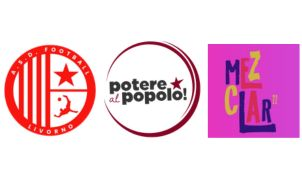
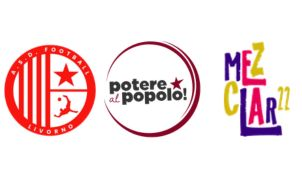
pagina realtà

Changed region(s): [[0.6854, 0.2198, 1.0, 0.7692]]

diff --git a/_posts/design/2026-06-06-realta.md b/_posts/design/2026-06-06-realta.md
@@ -1,0 +1,32 @@
+---
+layout: page
+subheadline: Realtà
+title:  "Quali sono le realtà che vivono lo spazio?"
+permalink: /realta/
+show_meta: false
+breadcrumb: true
+image:
+    title: realta-big.png
+    caption: Realtà
+---
+
+<h2> <a href="https://poterealpopolo.org/" target="_blank" rel="noopener noreferrer">POTERE AL POPOLO </a></h2>
+
+Siamo le giovani e i giovani che lavorano a nero, precari, per 800 euro al mese perché ne hanno bisogno, che spesso emigrano per trovare di meglio. Siamo lavoratori e lavoratrici sottoposte ogni giorno a ricatti sempre più pesanti e offensivi per la nostra dignità, che vedono il proprio salario mangiato da affitti, bollette e spesa sempre più cari. Siamo disoccupate, cassaintegrate, esodati. <br> Siamo i pensionati che campano con poco anche se hanno faticato una vita e ora non vedono prospettive per i loro figli. Siamo le donne che lottano contro la violenza maschilie, il patriarcato, le disparità di salario a parità di lavoro. Siamo le persone LGBT discriminate sul lavoro e dalle istituzioni. Siamo pendolari, abitanti delle periferie che lottano con il trasporto pubblico inefficiente e la mancanza di servizi. I malati che aspettano mesi per una visita nella sanità pubblica, perché quella privata non possono permettersela. Siamo i migranti che aspettano invano un permesso di soggiorno pur lavorando da anni in Italia. <br>
+Siamo coloro che producono la ricchezza di questo paese. <br>
+Ma siamo anche quelli che non cedono alla disperazione e alla rassegnazione, che non sopportano di vivere in un’Italia sempre più incattivita, triste, impoverita e ingiusta. <br> Siamo quelli che vogliono liberare le migliori energie di questo paese, gettare a mare una zavorra fatta di corporativismo, di una classe politica e imprenditoriale immorali e corrotte. <br> Ci impegniamo ogni giorno, organizzandoci in comitati, associazioni, centri sociali, partiti e sindacati, nei quartieri, nelle piazze o sui posti di lavoro, per contrastare la disumanità dei nostri tempi, il cinismo del profitto e della rendita, la barbarie del genocidio e della guerra, le discriminazioni di ogni tipo, lo svuotamento della democrazia. <br> Per organizzare il futuro.
+![Pap1!](../../images/potere-al-popolo-realta.jpg) ![Pap2!](../../images/potere-al-popolo-realta2.jpg)
+<a href="https://poterealpopolo.org/" target="_blank">
+  <img src="../../images/aderisci-banner.jpg" alt="Banner Aderisci" rel="noopener noreferrer">
+</a>
+
+
+<h2> <a href="https://www.instagram.com/football.livorno/" target="_blank" rel="noopener noreferrer">FOOTBALL LIVORNO </a></h2>
+Descrizione Football Livorno con foto
+
+
+<h2> <a href="https://www.mezclar22.org/" target="_blank" rel="noopener noreferrer">MEZCLAR</a></h2>
+Descrizione Mezclar
+
+Siamo attivə nel quartiere Garibaldi di Livorno con progetti di animazione sociale e culturali legati ad una costante pratica di advocacy sul tema della sostenibilità ecologica e le criticità sociali e politiche legate trasformazioni urbane. Attraverso la rigenerazione di molteplici fondi nella zona, dove sperimentiamo e sviluppiamo idee e pratiche legate all’economia circolare e solidale, cerchiamo di contribuire ad un tipo di rigenerazione urbana che si ponga in ascolto delle criticità sociali che essa genera senza l’equa attuazione di correttivi all’interesse speculativo immobiliare. “La Riuso!” in via della Pina d’Oro è la sede dell’associazione, dove il progetto di economia circolare e solidale vincitore nel giugno 2017 del bando Pop up continua a svolgere il suo doppio ruolo di luogo di raccolta di abiti usati e presidio sociale di quartiere. “Mezclar Cafè” in piazza dei Mille è invece lo spazio culturale ibrido che da due anni ospita live set acustici, mostre, performance musicali e di danza, e che attualmente partecipa al progetto cittadino “Livorno città che legge/La biblioteca va in città”, con la trasformazione di un fondo commerciale sfitto da molti anni in libreria popolare e caffè letterario. “Crema” è la boutiquina de “La Riuso!”, nata ultimamente come piccola appendice vintage del primo progetto, uno spazio creativo di recupero e upcycling degli abiti oltre ad un luogo di ideazione di eventi culturali e artistici.
+![Mezclar!](../../images/mezclar-garibaldi.jpg)

diff --git a/pages/getting-started.md b/pages/getting-started.md
@@ -3,10 +3,9 @@ layout              : page
 show_meta           : false
 title               : "Cos'è la Casa del Popolo Heval?"
 subheadline         : "Ci presentiamo meglio"
-teaser              : "This step-by-step guide helps you to customize Feeling Responsive to your needs."
 header:
    image_fullwidth  : "banner-chi-siamo.jpg"
-permalink           : "/getting-started/"
+permalink           : "/chi-siamo/"
 ---
 Come Potere al Popolo abbiamo preso questo spazio per aprire finalmente la nostra Casa del Popolo anche a Livorno.
 
@@ -28,4 +27,6 @@ Il nostro progetto prevede anche di far partire diversi corsi, attività e dibat
 
 Per questi motivi tutto quello che avremmo voluto dirvi e raccontarvi di persona su questo spazio, con un'inaugurazione con dibattiti e momenti più ricreativi, abbiamo pensato di metterlo per scritto sui fogli che troverete nella CdP a spiegazione dell'idea e dei valori che vogliamo seguire.
 
-<a class="radius button small" href="https://poterealpopolo.org/" target="_blank" rel="noopener noreferrer">Dai un occhiata alla pagina di Potere al popolo ›</a>
+<a href="https://poterealpopolo.org/" target="_blank">
+  <img src="../../images/aderisci-banner.jpg" alt="Banner Aderisci" rel="noopener noreferrer">
+</a>

diff --git a/pages/pages-root-folder/index.md b/pages/pages-root-folder/index.md
@@ -13,13 +13,13 @@ widget1:
   image: widget-1-302x182.jpg
   text: 'Scopri le attività e gli eventi ospitati dalla casa del popolo Heval'
 widget2:
-  title: "Biblioteca"
+  title: "Biblioteca Heval"
   url: '/biblioteca/'
   image: start-video-feeling-responsive-302x182.jpg
   text: 'Scopri i libri che puoi prendere in prestito dalla Biblioteca Heval'
 widget3:
   title: "Realtà"
-  url: 'https://github.com/Phlow/feeling-responsive'
+  url: '/realta/'
   image: copertina-realta.jpg
   text: 'Maggiori informazioni sulle realtà che vivono la casa del popolo Heval'
 #
